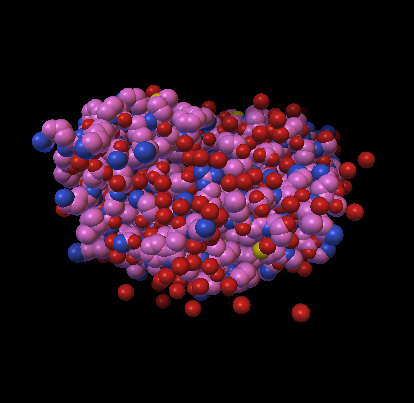
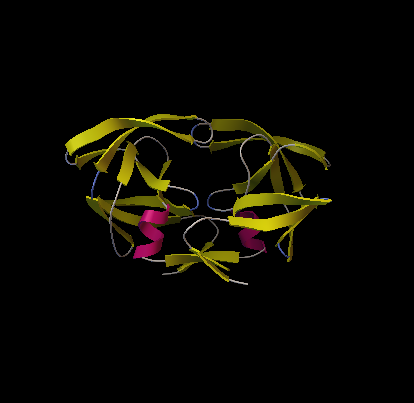
Ribbon screenshot shows the ribbon, not CPK; macOS: qualify MxStack base members
The GUI smoke test drew the ribbon while the CPK spheres were still
displayed, so the README ribbon image showed CPK. Hide atoms first and
colour the ribbon by secondary structure.

diff --git a/tests/gui_smoke.py b/tests/gui_smoke.py
@@ -139,11 +139,18 @@ if mols:
               _np.unique(h, return_counts=True))
     step("cpk highlight info", hl_info)
     step("CPK screenshot", lambda: shot("3_cpk"))
+    # hide the atoms first, otherwise the CPK spheres cover the ribbon
+    step("undisplay CPK", lambda: mv.displayCPK("hsg1", negate=True, log=0))
+    step("undisplay sticks", lambda: mv.displaySticksAndBalls("hsg1", negate=True, log=0))
+    step("undisplay lines", lambda: mv.displayLines("hsg1", negate=True, log=0))
     step("ribbon (secondary structure)", lambda: mv.ribbon("hsg1", log=0))
+    step("color ribbon by secondary structure",
+         lambda: mv.colorBySecondaryStructure("hsg1", ['secondarystructure'], log=0))
     step("ribbon screenshot", lambda: shot("4_ribbon"))
+    step("undisplay ribbon", lambda: mv.displayExtrudedSS("hsg1", negate=True, log=0))
+    step("display lines", lambda: mv.displayLines("hsg1", log=0))
     step("select residues ARG8", lambda: mv.select("hsg1::ARG8", log=0))
     step("color by atom type", lambda: mv.colorByAtomType("hsg1", ['lines'], log=0))
-    step("undisplay CPK", lambda: mv.displayCPK("hsg1", negate=True, log=0))
     step("computeMSMS (molecular surface)",
          lambda: mv.computeMSMS("hsg1", surfName="MSMS-MOL", pRadius=1.5,
                                 density=3.0, log=0))

diff --git a/native/QSlimLib/src/mixkit/MxStack.h b/native/QSlimLib/src/mixkit/MxStack.h
@@ -26,22 +26,22 @@ public:
     MxStack(const T& val, unsigned int n) : MxDynBlock<T>(n)
 	{ push(val); }
 
-    T&       top()       { return last(); }
-    const T& top() const { return last(); }
+    T&       top()       { return this->last(); }
+    const T& top() const { return this->last(); }
 
-    bool is_empty() { return length()==0; }
+    bool is_empty() { return this->length()==0; }
 
-    T& pop() { return drop(); }
+    T& pop() { return this->drop(); }
 
-    void push(const T& val) { add(val); }
+    void push(const T& val) { this->add(val); }
     //
     // NOTE: In this code, it is *crucial* that we do the add() and
     //       assignment in separate steps.  The obvious alternative
-    //       is something like { add(top()); }.  But this is subtly
+    //       is something like { this->add(top()); }.  But this is subtly
     //       broken!  The top() will grab a pointer into the block,
     //       but the add() may reallocate the block before doing the
     //       assignment.  Thus, the pointer will become invalid.
-    void push() { add(); top() = (*this)[length()-2]; }
+    void push() { this->add(); top() = (*this)[this->length()-2]; }
 };
 
 // MXSTACK_INCLUDED
